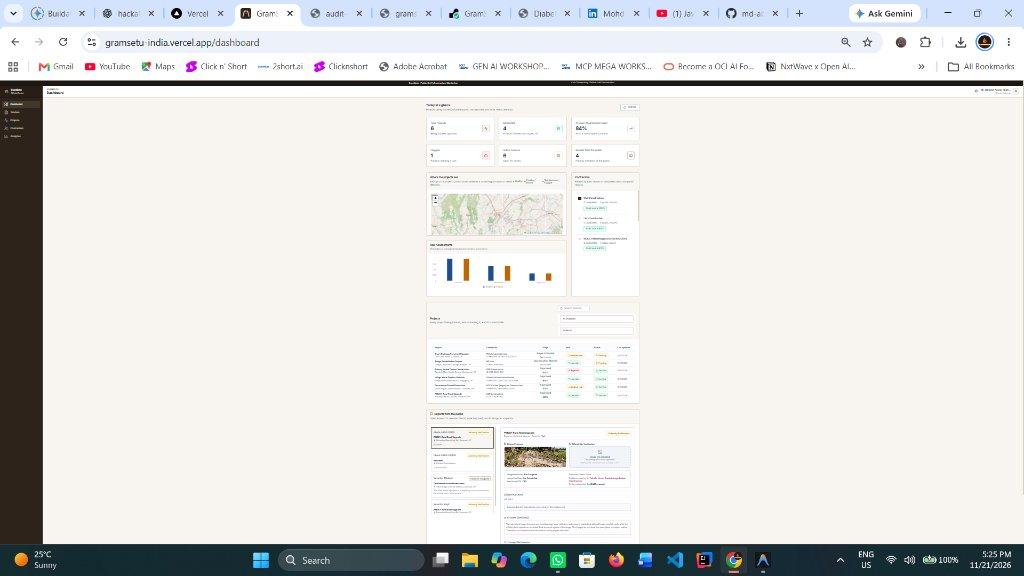
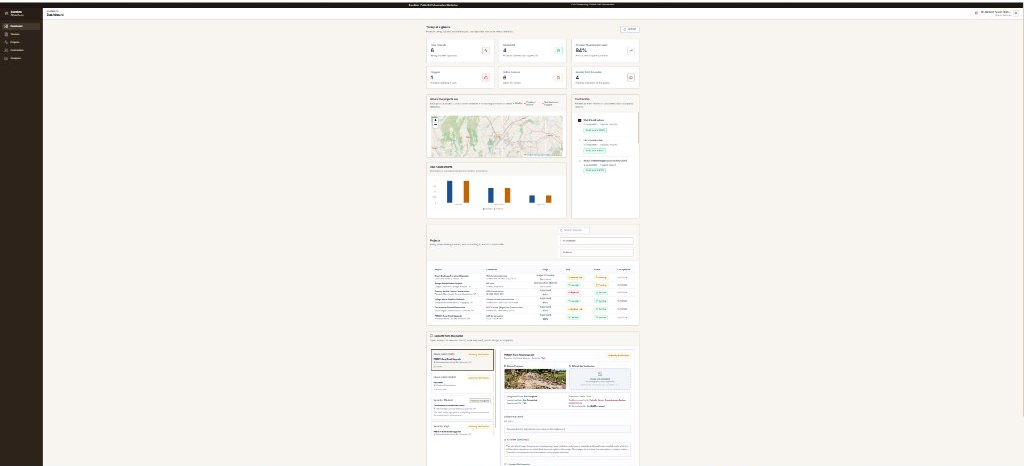
docs: restore subsection layout with compact FAANG-standard screenshot sizing in README

diff --git a/README.md b/README.md
@@ -140,20 +140,47 @@ GramSetu/
 
 GramSetu is actively deployed at **https://gramsetu-india.vercel.app** with live backend services at **https://gramsetu-31ax.onrender.com**. Below are authentic interface captures from the deployed system:
 
-| Citizen Sign-in & Quick Demo Access | Official Oversight Dashboard |
-| :---: | :---: |
-| <img src="docs/screenshots/verification/01-deployed-login.png" width="360" alt="Sign-in with Demo Access" /> | <img src="docs/screenshots/verification/02-deployed-dashboard.png" width="360" alt="Official Oversight Dashboard" /> |
-| *Role-based authentication with one-click demo credentials for instant evaluator inspection.* | *Consolidated district telemetry showing active works, regional map pins, and risk distribution.* |
+### 7.1 Citizen Sign-in & Demonstration Access
+Role-based authentication with one-click demo credentials for district authorities, field inspectors, and citizens for immediate evaluator inspection.
 
-| Contractor Performance Registry | Contractor Deep-Dive Analysis View |
-| :---: | :---: |
-| <img src="docs/screenshots/verification/03-deployed-contractors.png" width="360" alt="Contractor Registry" /> | <img src="docs/screenshots/verification/04-deployed-contractor-analysis.png" width="360" alt="Contractor Analysis" /> |
-| *Corporate civil registry tracking verified engineering credentials, contacts, and trust scores.* | *Historical project delivery outcomes, work distribution charts, and citizen audit remarks.* |
+<p align="center">
+  <img src="docs/screenshots/verification/01-deployed-login.png" width="480" alt="Citizen Sign-in with Quick Demo Access" />
+</p>
 
-| Civil Infrastructure Projects Monitoring | Citizen Grievance Ground Verification |
-| :---: | :---: |
-| <img src="docs/screenshots/verification/05-deployed-projects.png" width="360" alt="Project Monitoring" /> | <img src="docs/screenshots/verification/06-deployed-citizen-verify.png" width="360" alt="Citizen Verification" /> |
-| *Photographic before-and-after audit ledger with AI completion scores and lifecycle tracking.* | *Closed-loop citizen reporting with GPS tagging, YOLOv8 defect detection, and inspector dispatch.* |
+### 7.2 District Oversight Telemetry Dashboard
+Consolidated district telemetry showing active works, regional map pins, live risk assessment distribution, and contractor trust rankings.
+
+<p align="center">
+  <img src="docs/screenshots/verification/02-deployed-dashboard.png" width="480" alt="Official District Oversight Dashboard" />
+</p>
+
+### 7.3 Corporate Contractor Registry
+Corporate civil registry tracking verified engineering credentials, headquarter locations, contacts, and multi-factor trust scores.
+
+<p align="center">
+  <img src="docs/screenshots/verification/03-deployed-contractors.png" width="480" alt="Corporate Contractor Registry" />
+</p>
+
+### 7.4 Contractor Performance Deep-Dive & Analytics
+Historical project delivery outcomes, work distribution charts, average AI completion verification scores, and citizen audit remarks.
+
+<p align="center">
+  <img src="docs/screenshots/verification/04-deployed-contractor-analysis.png" width="480" alt="Contractor Performance Analytics" />
+</p>
+
+### 7.5 Civil Infrastructure Lifecycle & Photographic Ledger
+Multi-stage civil works progression, before-and-after photographic audit ledger, and AI completion verification.
+
+<p align="center">
+  <img src="docs/screenshots/verification/05-deployed-projects.png" width="480" alt="Civil Infrastructure Project Monitoring Ledger" />
+</p>
+
+### 7.6 Citizen Grievance Ground Verification & Defect Detection
+Closed-loop citizen grievance submission with GPS coordinate verification, YOLOv8 defect detection, and field inspector assignment.
+
+<p align="center">
+  <img src="docs/screenshots/verification/06-deployed-citizen-verify.png" width="480" alt="Citizen Grievance Verification" />
+</p>
 
 ---
 
